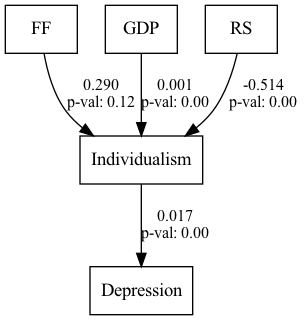
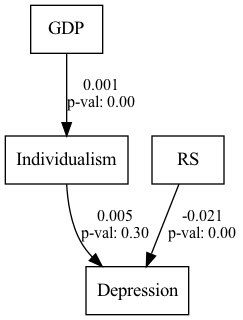
Created final models for analysis

diff --git a/analysis.py b/analysis.py
@@ -415,12 +415,6 @@ Individualism ~ GDP
 
 RS ~~ FF
 """
-desc1 = f"""
-Depression ~  RS + FF + Individualism
-Individualism ~ GDP
-
-RS ~~ FF
-"""
 desc2 = f"""
 Depression ~  FF + Individualism
 Individualism ~ RS + GDP
@@ -434,15 +428,47 @@ Individualism ~ GDP
 
 RS ~~ FF
 """
-desc4 = f"""
-Depression ~  Individualism
-Individualism ~ RS + GDP + FF
+
+desc1 = f"""
+Depression ~  RS + FF + Individualism
+Individualism ~ GDP
+
+RS ~~ FF
+"""
+desc6 = f"""
+Depression ~  FF + Individualism
+Individualism ~ GDP
+RS ~ Individualism
 
 RS ~~ FF
 """
 
-createModel(desc, mergedDatasetCleaned, "Model")
+desc4 = f"""
+Depression ~  RS + Individualism
+Individualism ~ GDP
+"""
+desc5 = f"""
+Depression ~  Individualism
+Individualism ~ GDP
+RS ~ Individualism
+"""
+
+# all commented models reject the null hypothesis
+
+#createModel(desc, mergedDatasetCleaned, "Model")
+#createModel(desc2, mergedDatasetCleaned, "Model2")
+#createModel(desc3, mergedDatasetCleaned, "Model3")
+
+"""
+higher parameter model
+"""
 createModel(desc1, mergedDatasetCleaned, "Model1")
-createModel(desc2, mergedDatasetCleaned, "Model2")
-createModel(desc3, mergedDatasetCleaned, "Model3")
+# no implication on depression from RS
+createModel(desc6, mergedDatasetCleaned, "Model6")
+
+"""
+low parameter model
+"""
 createModel(desc4, mergedDatasetCleaned, "Model4")
+# no implication on depression from RS
+createModel(desc5, mergedDatasetCleaned, "Model5")
